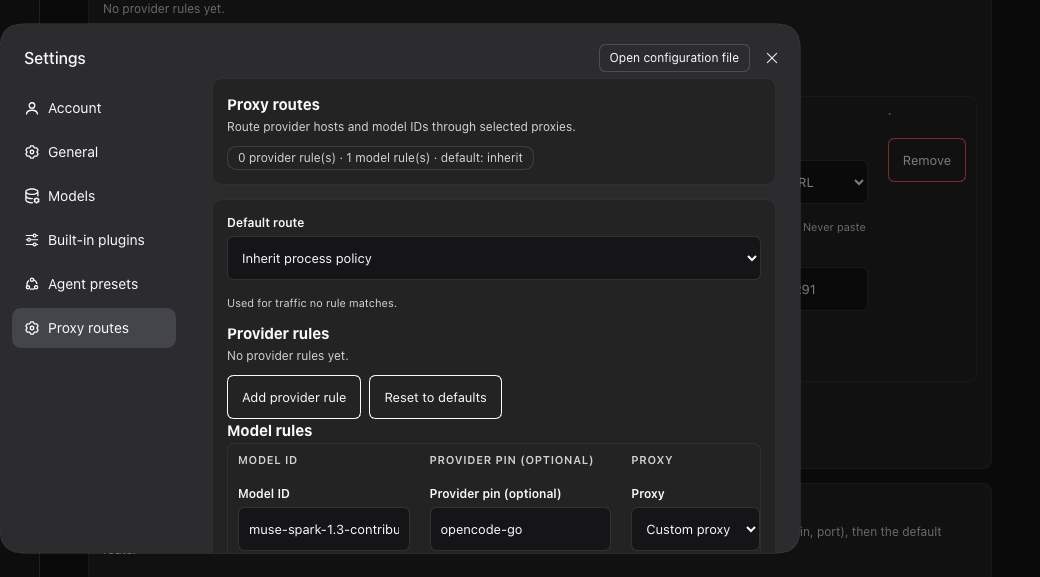
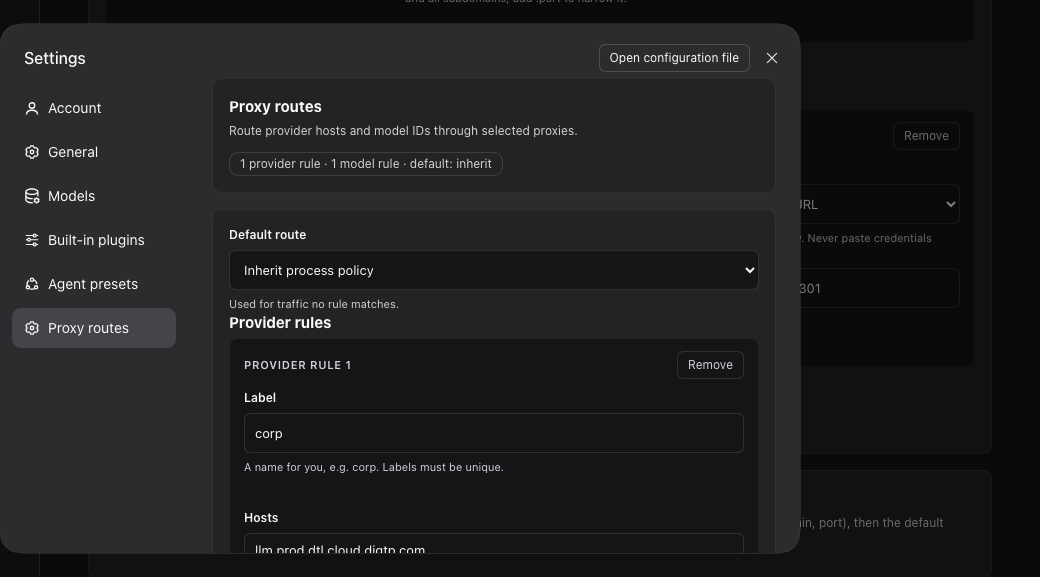
Render rules as cards with a spacing scale; fix pluralisation (0.2.4)

diff --git a/client/client.ui.js b/client/client.ui.js
@@ -205,94 +205,88 @@ window.__ModuleLoader__.load({
               h('option', { value: 'direct' }, t('proxyChoiceDirect'))),
             h('p', { className: 'px-hint' }, t('defaultHint'))),
           h('h3', { className: 'px-title' }, t('providersTitle')),
-          draft.providers.length === 0 ? h('p', { className: 'px-sub' }, t('noProviders')) : h('div', { className: 'px-tablewrap' },
-            h('table', { className: 'px-table' },
-              h('thead', null, h('tr', null,
-                h('th', { scope: 'col' }, t('providerLabel')),
-                h('th', { scope: 'col' }, t('hostsLabel')),
-                h('th', { scope: 'col' }, t('proxyLabel')),
-                h('th', { scope: 'col' }, h('span', { className: 'px-muted' }, '·')))),
-              h('tbody', null, draft.providers.map((row, index) => h('tr', { key: row.key },
-                h('td', null,
-                  h('div', { className: 'px-field' },
-                    h('label', { className: 'px-label', htmlFor: `px-provider-${index}-label` }, t('providerLabel')),
-                    h('input', {
-                      id: `px-provider-${index}-label`, className: 'px-input', value: row.label, disabled,
-                      autoComplete: 'off', spellCheck: false,
-                      'aria-invalid': fieldError('providers', index, 'label') ? 'true' : 'false',
-                      'aria-describedby': `px-provider-${index}-label-hint px-provider-${index}-label-error`,
-                      onChange: (event) => updateProvider(index, { label: event.target.value }),
-                    }),
-                    h('p', { className: 'px-hint', id: `px-provider-${index}-label-hint` }, t('providerLabelHint')),
-                    h(FieldError, { id: `px-provider-${index}-label-error`, message: fieldError('providers', index, 'label') }))),
-                h('td', null,
-                  h('div', { className: 'px-field' },
-                    h('label', { className: 'px-label', htmlFor: `px-provider-${index}-hosts` }, t('hostsLabel')),
-                    h('textarea', {
-                      id: `px-provider-${index}-hosts`, className: 'px-textarea', value: row.hosts, disabled,
-                      autoComplete: 'off', spellCheck: false,
-                      'aria-invalid': fieldError('providers', index, 'hosts') ? 'true' : 'false',
-                      'aria-describedby': `px-provider-${index}-hosts-hint px-provider-${index}-hosts-error`,
-                      onChange: (event) => updateProvider(index, { hosts: event.target.value }),
-                    }),
-                    h('p', { className: 'px-hint', id: `px-provider-${index}-hosts-hint` }, t('hostsHint')),
-                    h(FieldError, { id: `px-provider-${index}-hosts-error`, message: fieldError('providers', index, 'hosts') }))),
-                h('td', null,
-                  h(ProxyValueEditor, {
-                    t,
-                    baseId: `px-provider-${index}-proxy`,
-                    disabled,
-                    value: { kind: row.proxyKind, url: row.proxyUrl, error: fieldError('providers', index, 'proxy') },
-                    onChange: (next) => updateProvider(index, { proxyKind: next.kind, proxyUrl: next.url || '' }),
-                  })),
-                h('td', null,
-                  h('button', { type: 'button', className: 'px-btn px-btn-danger', disabled, 'aria-label': t('deleteRow', row.label || `#${index + 1}`), onClick: () => removeProvider(index) }, t('remove')))))))),
+          draft.providers.length === 0 ? h('p', { className: 'px-sub' }, t('noProviders')) : h('div', { className: 'px-rules' },
+            draft.providers.map((row, index) => h('div', { className: 'px-rule', key: row.key },
+              h('div', { className: 'px-rule-head' },
+                h('span', { className: 'px-rule-name' }, t('providerRuleName', index + 1)),
+                h('button', {
+                  type: 'button', className: 'px-rule-remove', disabled,
+                  'aria-label': t('deleteRow', row.label || `#${index + 1}`),
+                  onClick: () => removeProvider(index),
+                }, t('remove'))),
+              h('div', { className: 'px-rule-grid' },
+                h('div', { className: 'px-field' },
+                  h('label', { className: 'px-label', htmlFor: `px-provider-${index}-label` }, t('providerLabel')),
+                  h('input', {
+                    id: `px-provider-${index}-label`, className: 'px-input', value: row.label, disabled,
+                    autoComplete: 'off', spellCheck: false,
+                    'aria-invalid': fieldError('providers', index, 'label') ? 'true' : 'false',
+                    'aria-describedby': `px-provider-${index}-label-hint px-provider-${index}-label-error`,
+                    onChange: (event) => updateProvider(index, { label: event.target.value }),
+                  }),
+                  h('p', { className: 'px-hint', id: `px-provider-${index}-label-hint` }, t('providerLabelHint')),
+                  h(FieldError, { id: `px-provider-${index}-label-error`, message: fieldError('providers', index, 'label') })),
+                h('div', { className: 'px-field' },
+                  h('label', { className: 'px-label', htmlFor: `px-provider-${index}-hosts` }, t('hostsLabel')),
+                  h('textarea', {
+                    id: `px-provider-${index}-hosts`, className: 'px-textarea', value: row.hosts, disabled,
+                    autoComplete: 'off', spellCheck: false,
+                    'aria-invalid': fieldError('providers', index, 'hosts') ? 'true' : 'false',
+                    'aria-describedby': `px-provider-${index}-hosts-hint px-provider-${index}-hosts-error`,
+                    onChange: (event) => updateProvider(index, { hosts: event.target.value }),
+                  }),
+                  h('p', { className: 'px-hint', id: `px-provider-${index}-hosts-hint` }, t('hostsHint')),
+                  h(FieldError, { id: `px-provider-${index}-hosts-error`, message: fieldError('providers', index, 'hosts') })),
+                h(ProxyValueEditor, {
+                  t,
+                  baseId: `px-provider-${index}-proxy`,
+                  disabled,
+                  value: { kind: row.proxyKind, url: row.proxyUrl, error: fieldError('providers', index, 'proxy') },
+                  onChange: (next) => updateProvider(index, { proxyKind: next.kind, proxyUrl: next.url || '' }),
+                }))))),
           h('div', { className: 'px-actions' },
             h('button', { type: 'button', className: 'px-btn', disabled, onClick: addProvider }, t('addProvider')),
             h('button', { type: 'button', className: 'px-btn', disabled, onClick: onReset }, t('resetDefaults'))),
           h('h3', { className: 'px-title' }, t('modelsTitle')),
-          draft.models.length === 0 ? h('p', { className: 'px-sub' }, t('noModels')) : h('div', { className: 'px-tablewrap' },
-            h('table', { className: 'px-table' },
-              h('thead', null, h('tr', null,
-                h('th', { scope: 'col' }, t('modelLabel')),
-                h('th', { scope: 'col' }, t('providerPinLabel')),
-                h('th', { scope: 'col' }, t('proxyLabel')),
-                h('th', { scope: 'col' }, h('span', { className: 'px-muted' }, '·')))),
-              h('tbody', null, draft.models.map((row, index) => h('tr', { key: row.key },
-                h('td', null,
-                  h('div', { className: 'px-field' },
-                    h('label', { className: 'px-label', htmlFor: `px-model-${index}-id` }, t('modelLabel')),
-                    h('input', {
-                      id: `px-model-${index}-id`, className: 'px-input', value: row.id, disabled,
-                      autoComplete: 'off', spellCheck: false,
-                      'aria-invalid': fieldError('models', index, 'id') ? 'true' : 'false',
-                      'aria-describedby': `px-model-${index}-id-hint px-model-${index}-id-error`,
-                      onChange: (event) => updateModel(index, { id: event.target.value }),
-                    }),
-                    h('p', { className: 'px-hint', id: `px-model-${index}-id-hint` }, t('modelHint')),
-                    h(FieldError, { id: `px-model-${index}-id-error`, message: fieldError('models', index, 'id') }))),
-                h('td', null,
-                  h('div', { className: 'px-field' },
-                    h('label', { className: 'px-label', htmlFor: `px-model-${index}-provider` }, t('providerPinLabel')),
-                    h('input', {
-                      id: `px-model-${index}-provider`, className: 'px-input', value: row.provider, disabled,
-                      autoComplete: 'off', spellCheck: false,
-                      'aria-invalid': fieldError('models', index, 'provider') ? 'true' : 'false',
-                      'aria-describedby': `px-model-${index}-provider-hint px-model-${index}-provider-error`,
-                      onChange: (event) => updateModel(index, { provider: event.target.value }),
-                    }),
-                    h('p', { className: 'px-hint', id: `px-model-${index}-provider-hint` }, t('providerPinHint')),
-                    h(FieldError, { id: `px-model-${index}-provider-error`, message: fieldError('models', index, 'provider') }))),
-                h('td', null,
-                  h(ProxyValueEditor, {
-                    t,
-                    baseId: `px-model-${index}-proxy`,
-                    disabled,
-                    value: { kind: row.proxyKind, url: row.proxyUrl, error: fieldError('models', index, 'proxy') },
-                    onChange: (next) => updateModel(index, { proxyKind: next.kind, proxyUrl: next.url || '' }),
-                  })),
-                h('td', null,
-                  h('button', { type: 'button', className: 'px-btn px-btn-danger', disabled, 'aria-label': t('deleteRow', row.id || `#${index + 1}`), onClick: () => removeModel(index) }, t('remove')))))))),
+          draft.models.length === 0 ? h('p', { className: 'px-sub' }, t('noModels')) : h('div', { className: 'px-rules' },
+            draft.models.map((row, index) => h('div', { className: 'px-rule', key: row.key },
+              h('div', { className: 'px-rule-head' },
+                h('span', { className: 'px-rule-name' }, t('modelRuleName', index + 1)),
+                h('button', {
+                  type: 'button', className: 'px-rule-remove', disabled,
+                  'aria-label': t('deleteRow', row.id || `#${index + 1}`),
+                  onClick: () => removeModel(index),
+                }, t('remove'))),
+              h('div', { className: 'px-rule-grid' },
+                h('div', { className: 'px-field' },
+                  h('label', { className: 'px-label', htmlFor: `px-model-${index}-id` }, t('modelLabel')),
+                  h('input', {
+                    id: `px-model-${index}-id`, className: 'px-input', value: row.id, disabled,
+                    autoComplete: 'off', spellCheck: false,
+                    'aria-invalid': fieldError('models', index, 'id') ? 'true' : 'false',
+                    'aria-describedby': `px-model-${index}-id-hint px-model-${index}-id-error`,
+                    onChange: (event) => updateModel(index, { id: event.target.value }),
+                  }),
+                  h('p', { className: 'px-hint', id: `px-model-${index}-id-hint` }, t('modelHint')),
+                  h(FieldError, { id: `px-model-${index}-id-error`, message: fieldError('models', index, 'id') })),
+                h('div', { className: 'px-field' },
+                  h('label', { className: 'px-label', htmlFor: `px-model-${index}-provider` }, t('providerPinLabel')),
+                  h('input', {
+                    id: `px-model-${index}-provider`, className: 'px-input', value: row.provider, disabled,
+                    autoComplete: 'off', spellCheck: false,
+                    'aria-invalid': fieldError('models', index, 'provider') ? 'true' : 'false',
+                    'aria-describedby': `px-model-${index}-provider-hint px-model-${index}-provider-error`,
+                    onChange: (event) => updateModel(index, { provider: event.target.value }),
+                  }),
+                  h('p', { className: 'px-hint', id: `px-model-${index}-provider-hint` }, t('providerPinHint')),
+                  h(FieldError, { id: `px-model-${index}-provider-error`, message: fieldError('models', index, 'provider') })),
+                h(ProxyValueEditor, {
+                  t,
+                  baseId: `px-model-${index}-proxy`,
+                  disabled,
+                  value: { kind: row.proxyKind, url: row.proxyUrl, error: fieldError('models', index, 'proxy') },
+                  onChange: (next) => updateModel(index, { proxyKind: next.kind, proxyUrl: next.url || '' }),
+                }))))),
           h('div', { className: 'px-actions' },
             h('button', { type: 'button', className: 'px-btn', disabled, onClick: addModel }, t('addModel')),
             h('button', { type: 'submit', className: 'px-btn px-btn-primary', disabled }, phase === 'saving' ? t('saving') : t('save')),

diff --git a/client/client.theme.js b/client/client.theme.js
@@ -9,11 +9,11 @@ window.__ModuleLoader__.load({
   id: '@apolenkov/dsh-provider-proxy/client.theme.js',
   factory() {
     const CSS = [
-      '.px-root{box-sizing:border-box;display:flex;flex-direction:column;gap:14px;font-size:13px;line-height:1.5;color:var(--dsw-alias-label-primary)}',
+      '.px-root{box-sizing:border-box;display:flex;flex-direction:column;gap:16px;font-size:13px;line-height:1.5;color:var(--dsw-alias-label-primary)}',
       '.px-root *{box-sizing:border-box}',
-      '.px-card{border:1px solid var(--dsw-alias-border-l1);border-radius:12px;background:var(--dsw-alias-bg-layer-1);padding:14px}',
-      '.px-title{font-size:15px;margin:0 0 2px}',
-      '.px-sub{color:var(--dsw-alias-label-secondary);font-size:12px;margin:0 0 10px}',
+      '.px-card{border:1px solid var(--dsw-alias-border-l1);border-radius:12px;background:var(--dsw-alias-bg-layer-1);padding:16px}',
+      '.px-title{font-size:15px;margin:0 0 4px}',
+      '.px-sub{color:var(--dsw-alias-label-secondary);font-size:12px;line-height:1.5;margin:0 0 12px}',
       '.px-status{display:flex;flex-wrap:wrap;gap:8px;align-items:center;font-size:12px;color:var(--dsw-alias-label-secondary)}',
       '.px-pill{display:inline-block;border:1px solid var(--dsw-alias-border-l2);border-radius:999px;padding:2px 10px;font-size:12px}',
       '.px-error-summary{border:1px solid var(--dsw-alias-state-error-primary);border-radius:10px;padding:10px 12px;background:var(--dsw-alias-bg-layer-1)}',
@@ -21,35 +21,30 @@ window.__ModuleLoader__.load({
       '.px-error-summary ul{margin:0;padding-left:18px}',
       '.px-error-summary a{color:inherit}',
       '.px-badge{display:inline-block;border:1px solid var(--dsw-alias-border-l2);border-radius:999px;padding:1px 9px;font-size:11px;color:var(--dsw-alias-label-secondary)}',
-      '.px-tablewrap{overflow-x:auto;border:1px solid var(--dsw-alias-border-l1);border-radius:10px;container-type:inline-size}',
-      '.px-table{border-collapse:collapse;border-spacing:0;table-layout:fixed;width:100%;font-size:13px}',
-      '.px-table th,.px-table td{padding:8px 10px;text-align:left;vertical-align:top;border-bottom:1px solid var(--dsw-alias-border-l1)}',
-      '.px-table th:nth-child(1){width:27%}',
-      '.px-table th:nth-child(2){width:29%}',
-      '.px-table th:nth-child(3){width:32%}',
-      '.px-table th:nth-child(4){width:12%}',
-      '.px-table td{min-width:0}',
-      '.px-table td:last-child .px-btn{padding:0 8px;width:100%}',
-      '.px-table th{font-size:11px;text-transform:uppercase;letter-spacing:.06em;color:var(--dsw-alias-label-secondary);font-weight:600}',
-      '.px-table tr:last-child th,.px-table tr:last-child td{border-bottom:none}',
-      '@container (max-width:760px){.px-tablewrap{border:0;overflow:visible}.px-table{min-width:0;table-layout:auto;border-collapse:separate}.px-table thead{display:none}.px-table tbody,.px-table tr{display:block}.px-table tr{position:relative;border:1px solid var(--dsw-alias-border-l1);border-radius:10px;padding:10px 12px;margin:0 0 12px}.px-table tr:last-child{margin-bottom:0}.px-table td{display:block;width:auto;padding:0 0 8px;border-bottom:0}.px-table td:first-child{padding-right:36px}.px-table td:last-child{position:absolute;top:8px;right:8px;padding:0;display:block}.px-table td:last-child .px-btn{width:28px;height:28px;min-height:28px;padding:0;font-size:0;line-height:1;display:flex;align-items:center;justify-content:center}.px-table td:last-child .px-btn::before{content:"\\00d7";font-size:16px;line-height:1}}',
-      '.px-field{display:flex;flex-direction:column;gap:4px;min-width:0}',
+      '.px-rules{display:flex;flex-direction:column;gap:12px}',
+      '.px-rule{border:1px solid var(--dsw-alias-border-l1);border-radius:10px;background:var(--dsw-alias-bg-base);padding:12px 14px 14px}',
+      '.px-rule-head{display:flex;align-items:center;justify-content:space-between;gap:8px;margin:0 0 10px}',
+      '.px-rule-name{font-size:11px;font-weight:600;letter-spacing:.06em;text-transform:uppercase;color:var(--dsw-alias-label-secondary)}',
+      '.px-rule-remove{min-height:28px;padding:0 10px;font-size:12px;line-height:1;border-radius:8px;border:1px solid var(--dsw-alias-border-l2);background:transparent;color:var(--dsw-alias-label-secondary);cursor:pointer}',
+      '.px-rule-remove:hover:not(:disabled){border-color:var(--dsw-alias-state-error-primary);color:var(--dsw-alias-state-error-primary)}',
+      '.px-rule-grid{display:grid;grid-template-columns:repeat(auto-fit,minmax(260px,1fr));gap:12px 16px}',
+      '.px-rule-grid>*{min-width:0}',
+      '.px-field{display:flex;flex-direction:column;gap:6px;min-width:0}',
       '.px-label{font-size:12px;font-weight:600}',
-      '.px-hint{font-size:11px;color:var(--dsw-alias-label-secondary)}',
-      '.px-input,.px-select,.px-textarea{background:var(--dsw-alias-bg-base);color:var(--dsw-alias-label-primary);border:1px solid var(--dsw-alias-border-l2);border-radius:8px;padding:0 10px;font-size:13px;min-height:44px;width:100%}',
+      '.px-hint{font-size:11px;line-height:1.45;margin:0;color:var(--dsw-alias-label-secondary)}',
+      '.px-input,.px-select,.px-textarea{background:var(--dsw-alias-bg-base);color:var(--dsw-alias-label-primary);border:1px solid var(--dsw-alias-border-l2);border-radius:8px;padding:0 10px;font-size:13px;min-height:40px;width:100%}',
       '.px-textarea{padding:8px 10px;min-height:66px;resize:vertical}',
       '.px-input[aria-invalid="true"],.px-select[aria-invalid="true"],.px-textarea[aria-invalid="true"]{border-color:var(--dsw-alias-state-error-primary)}',
       '.px-ferr{font-size:11px;color:var(--dsw-alias-state-error-primary);min-height:16px;margin:0}',
       '.px-actions{display:flex;flex-wrap:wrap;gap:8px}',
-      '.px-btn{border:1px solid var(--dsw-alias-brand-primary);background:transparent;color:var(--dsw-alias-label-primary);border-radius:8px;padding:0 14px;font-size:13px;min-height:44px;cursor:pointer}',
+      '.px-btn{border:1px solid var(--dsw-alias-border-l2);background:transparent;color:var(--dsw-alias-label-primary);border-radius:8px;padding:0 14px;font-size:13px;min-height:40px;cursor:pointer}',
       '.px-btn:hover{background:var(--dsw-alias-bg-layer-1)}',
       '.px-btn:disabled{opacity:.5;cursor:default}',
       '.px-btn-primary{background:var(--dsw-alias-button-contrast-fill);color:var(--dsw-alias-label-primary-inverted);border-color:transparent}',
-      '.px-btn-danger{border-color:var(--dsw-alias-state-error-primary);min-height:44px}',
+      '.px-btn-danger{border-color:var(--dsw-alias-state-error-primary);min-height:40px}',
       '.px-live{font-size:12px;color:var(--dsw-alias-label-secondary)}',
       '.px-live[aria-live]{min-height:18px}',
       'a:focus-visible,button:focus-visible,input:focus-visible,select:focus-visible,textarea:focus-visible{outline:2px solid var(--dsw-alias-brand-primary);outline-offset:2px}',
-      '@media (max-width:720px){.px-table{min-width:520px}}',
       '@media (prefers-reduced-motion: reduce){.px-btn{transition:none}}',
     ].join('\n');
     return { CSS };

diff --git a/client/client.strings.js b/client/client.strings.js
@@ -8,11 +8,23 @@
 window.__ModuleLoader__.load({
   id: '@apolenkov/dsh-provider-proxy/client.strings.js',
   factory() {
+    // Russian needs three plural forms; keep the helper next to the dictionary.
+    function plural(n, one, few, many) {
+      const mod10 = n % 10;
+      const mod100 = n % 100;
+      if (mod10 === 1 && mod100 !== 11) return one;
+      if (mod10 >= 2 && mod10 <= 4 && (mod100 < 12 || mod100 > 14)) return few;
+      return many;
+    }
     const STRINGS = {
       en: {
         title: 'Proxy routes',
         description: 'Route provider hosts and model IDs through selected proxies.',
-        summary: (providers, models, fallback) => `${providers} provider rule(s) · ${models} model rule(s) · default: ${fallback}`,
+        summary: (providers, models, fallback) => {
+          const p = providers === 1 ? 'provider rule' : 'provider rules';
+          const m = models === 1 ? 'model rule' : 'model rules';
+          return `${providers} ${p} · ${models} ${m} · default: ${fallback}`;
+        },
         unavailable: 'This plugin is not loaded, so its routes cannot be edited here.',
         readOnly: 'This deployment stores settings read-only.',
         loading: 'Loading routes…',
@@ -42,6 +54,8 @@ window.__ModuleLoader__.load({
         proxyUrlLabel: 'Custom proxy URL',
         proxyUrlHint: 'http:// or https:// only. Never paste credentials here.',
         remove: 'Remove',
+        providerRuleName: (n) => `Provider rule ${n}`,
+        modelRuleName: (n) => `Model rule ${n}`,
         deleteRow: (what) => `Remove ${what}`,
         providersTitle: 'Provider rules',
         modelsTitle: 'Model rules',
@@ -67,7 +81,11 @@ window.__ModuleLoader__.load({
       ru: {
         title: 'Маршруты прокси',
         description: 'Направляйте хосты провайдеров и ID моделей через выбранные прокси.',
-        summary: (providers, models, fallback) => `Правил провайдеров: ${providers} · правил моделей: ${models} · по умолчанию: ${fallback}`,
+        summary: (providers, models, fallback) => {
+          const p = plural(providers, 'правило провайдера', 'правила провайдеров', 'правил провайдеров');
+          const m = plural(models, 'правило модели', 'правила моделей', 'правил моделей');
+          return `${providers} ${p} · ${models} ${m} · по умолчанию: ${fallback}`;
+        },
         unavailable: 'Плагин не загружен, поэтому маршруты здесь изменить нельзя.',
         readOnly: 'В этом развёртывании настройки только для чтения.',
         loading: 'Загрузка маршрутов…',
@@ -97,6 +115,8 @@ window.__ModuleLoader__.load({
         proxyUrlLabel: 'Свой URL прокси',
         proxyUrlHint: 'Только http:// или https://. Не вставляйте сюда учётные данные.',
         remove: 'Удалить',
+        providerRuleName: (n) => `Правило провайдера ${n}`,
+        modelRuleName: (n) => `Правило модели ${n}`,
         deleteRow: (what) => `Удалить «${what}»`,
         providersTitle: 'Правила провайдеров',
         modelsTitle: 'Правила моделей',
@@ -152,6 +172,8 @@ window.__ModuleLoader__.load({
         proxyUrlLabel: '自定义代理 URL',
         proxyUrlHint: '仅支持 http:// 或 https://。请勿在此填写凭据。',
         remove: '删除',
+        providerRuleName: (n) => `提供商规则 ${n}`,
+        modelRuleName: (n) => `模型规则 ${n}`,
         deleteRow: (what) => `删除「${what}」`,
         providersTitle: '提供商规则',
         modelsTitle: '模型规则',

diff --git a/CHANGELOG.md b/CHANGELOG.md
@@ -4,6 +4,19 @@ All notable changes to `dsh-provider-proxy` are documented here.
 The format follows [Keep a Changelog](https://keepachangelog.com/en/1.1.0/),
 and versions follow [Semantic Versioning](https://semver.org/).
 
+## [0.2.4] - 2026-10-23
+
+### Changed
+- **Rules render as cards instead of a table.** Each rule is a card with a muted
+  "Provider rule N" / "Model rule N" header, the action in the header, and a responsive grid
+  (`repeat(auto-fit, minmax(260px, 1fr))`): one full-width column at the ~530 px Settings
+  panel, three columns on the wide Plugins page. This removes the table-layout leftovers that
+  squeezed fields to half the card and left the action floating at the card bottom.
+- **Spacing scale:** root gap 16, card padding 16, field gap 6, controls 40 px high, hints
+  `line-height: 1.45`; section rhythm is now 4/8/12/16 instead of ad-hoc values.
+- **Copy:** the status pill pluralises properly — "1 provider rule · 1 model rule" instead of
+  "1 provider rule(s)", with Russian three-form plurals.
+
 ## [0.2.3] - 2026-10-23
 
 ### Fixed
